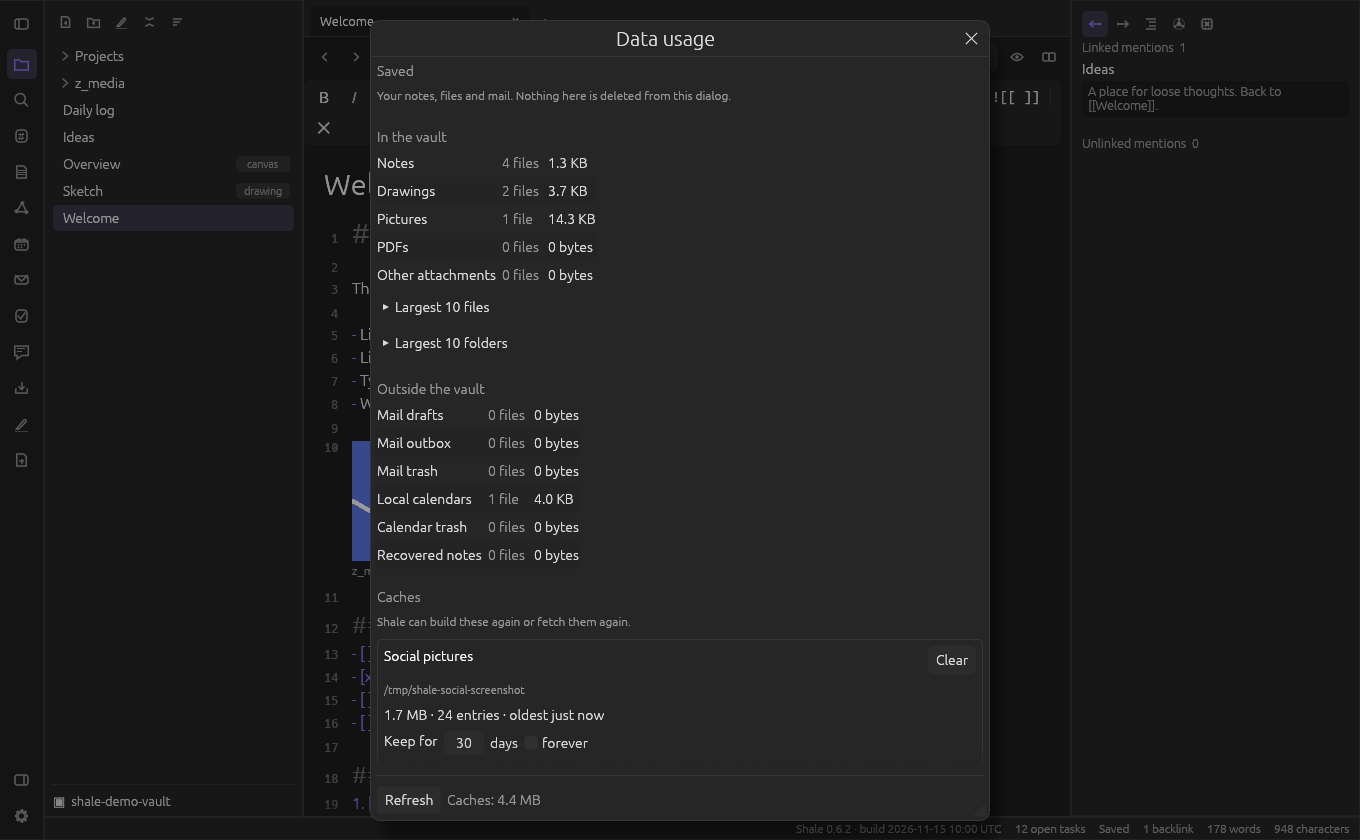
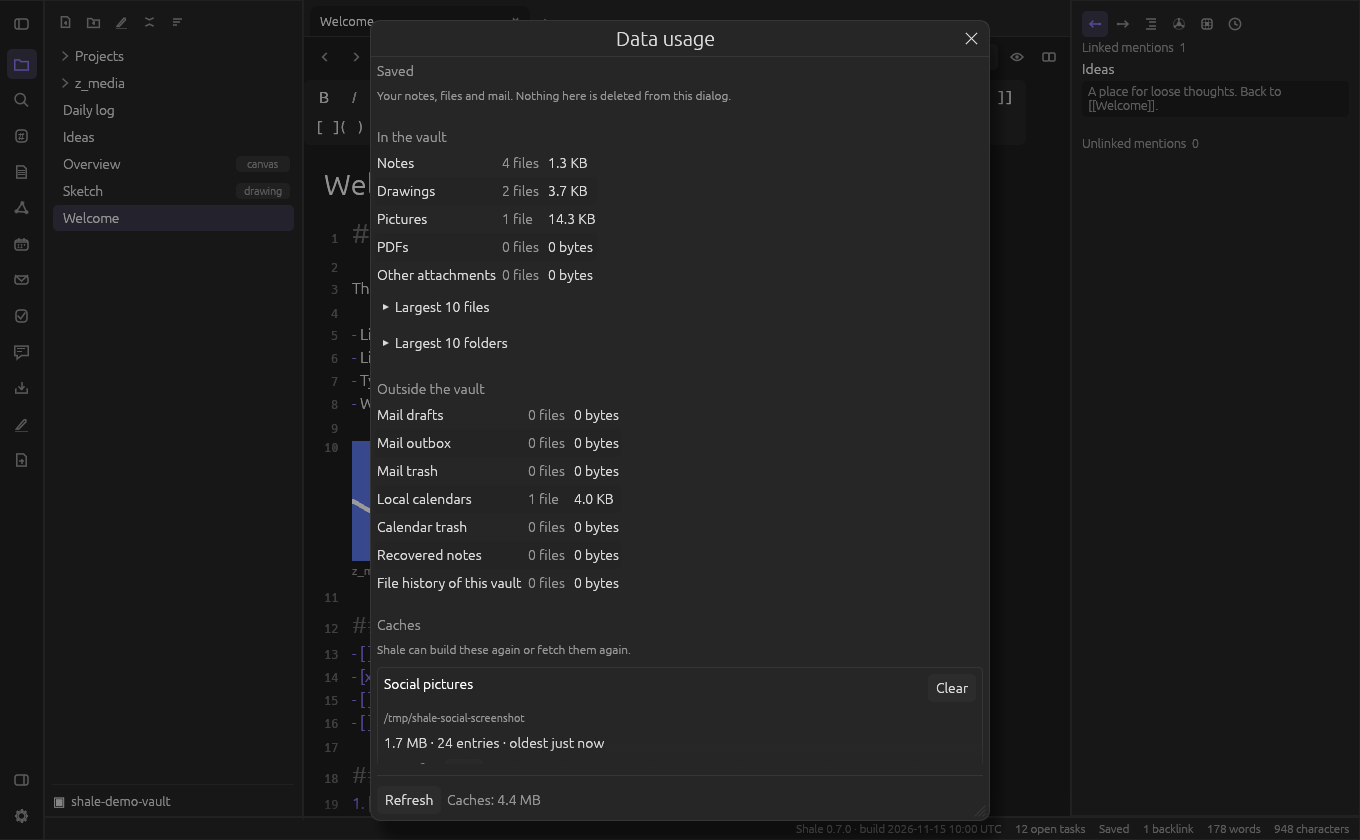
Outside files are not synced: a note in Settings -> Sync, tooltips on captions and names, tests; user guide, features and changelog
Closes #501

Changed region(s): [[0.2779, 0.4643, 0.4632, 0.8976], [0.6794, 0.7738, 0.7103, 0.8357], [0.4015, 0.7429, 0.4324, 0.7738]]

diff --git a/src/gitsync/tests.rs b/src/gitsync/tests.rs
@@ -186,6 +186,41 @@ fn two_vaults_sync_through_a_bare_remote() {
     assert_eq!(env.git(&a, &["rev-parse", "HEAD"]), env.git(&b, &["rev-parse", "HEAD"]));
 }
 
+// spec: MEDIA-023, SYNC-007
+#[test]
+fn a_vault_with_outside_links_syncs_only_its_own_files_and_leaves_the_outside_files_alone() {
+    let env = Env::new("outside-media");
+    let remote = env.bare();
+    let a = env.vault("a", &remote);
+    // the library folder and a loose file sit next to the vault, never inside it
+    let videos = env.folder("Videos");
+    write(&videos, "2024/clip.mp4", "outside video");
+    let loose = env.folder("loose");
+    write(&loose, "pic.png", "outside picture");
+    let file_link = crate::media::testdata::file_address(&loose.join("pic.png"));
+    let note = format!("# Trip\n\n![[@Videos/2024/clip.mp4]]\n\n![]({file_link})\n");
+    write(&a, "Trip.md", &note);
+    write(&a, "z_media/2026/11/261122_inside.png", "a copy in the vault");
+    let outside_before = (read(&videos, "2024/clip.mp4"), read(&loose, "pic.png"), fs::metadata(videos.join("2024/clip.mp4")).unwrap().modified().unwrap());
+    let r = env.sync(&a);
+    assert!(r.pushed && r.remote);
+    let tracked: Vec<String> = env.git(&a, &["ls-files"]).lines().map(String::from).collect();
+    assert_eq!(tracked, ["Trip.md", "z_media/2026/11/261122_inside.png"], "the links are text; the files they name are not in the history");
+    assert!(env.git(&remote, &["ls-tree", "-r", "--name-only", "main"]).lines().all(|f| !f.contains("clip.mp4") && !f.contains("pic.png")), "nor on the server");
+    // another device gets the note with its links, and not the files
+    let b = env.vault("b", &remote);
+    env.sync(&b);
+    assert_eq!(read(&b, "Trip.md"), note);
+    assert!(!b.join("2024").exists() && !b.join("Videos").exists() && !b.join("pic.png").exists() && !b.join("clip.mp4").exists());
+    // a change of the note on the second device comes back; the outside files were never touched
+    write(&b, "Trip.md", &format!("{note}\nmore\n"));
+    env.sync(&b);
+    env.sync(&a);
+    assert!(read(&a, "Trip.md").ends_with("more\n"));
+    assert_eq!(outside_before, (read(&videos, "2024/clip.mp4"), read(&loose, "pic.png"), fs::metadata(videos.join("2024/clip.mp4")).unwrap().modified().unwrap()), "read-only: content and time are as they were");
+    assert!(!videos.join(".git").exists() && !loose.join(".git").exists());
+}
+
 // spec: SYNC-008
 #[test]
 fn edits_on_both_sides_become_a_conflict_copy() {

diff --git a/src/media/ui_tests/outside.rs b/src/media/ui_tests/outside.rs
@@ -461,3 +461,38 @@ fn an_outside_picture_that_is_not_there_has_no_copy_action_and_the_menu_entry_is
     plain.hl.click(&mut plain.app, at + egui::vec2(8.0, 6.0), PointerButton::Primary);
     assert!(plain.app.outside_copy.is_none() && plain.app.toasts.iter().all(|(t, _)| !t.contains("Copying")), "it does nothing when it is off");
 }
+
+/// Hover over `at` for long enough that a tooltip shows, and say whether `what` is on the screen.
+fn tooltip_shows(fx: &mut Fx, at: Pos2, what: &str) -> bool {
+    fx.hl.frame(&mut fx.app, vec![egui::Event::PointerMoved(at)]);
+    for _ in 0..30 {
+        fx.hl.frame(&mut fx.app, vec![]);
+        if said(fx, what) {
+            return true;
+        }
+    }
+    false
+}
+
+// spec: MEDIA-023
+#[test]
+fn the_caption_and_the_name_of_an_outside_file_say_it_is_not_synced_and_those_of_the_vault_do_not() {
+    let o = Outside::new("not-synced");
+    o.picture("a.png");
+    let mut fx = window("o-not-synced", "![[@Media/a.png]]\n\n![[inside.png]]\n", o.library());
+    std::fs::copy(o.folder.join("a.png"), fx.dir.join("inside.png")).unwrap();
+    fx.app.vault.as_mut().unwrap().rescan();
+    fx.hl.frames(&mut fx.app, 3);
+    // the editor: the caption of the outside picture, not that of the picture of the vault
+    fx.reading(false);
+    let outside = fx.hl.text.iter().find(|(t, _)| t == "@Media/a.png").map(|(_, p)| *p).expect("the caption of the outside picture");
+    let inside = fx.hl.text.iter().find(|(t, _)| t == "inside.png").map(|(_, p)| *p).expect("the caption of the picture of the vault");
+    assert!(!tooltip_shows(&mut fx, inside + egui::vec2(6.0, 5.0), crate::media::outside::NOT_SYNCED), "a file of the vault is synced");
+    fx.hl.frame(&mut fx.app, vec![egui::Event::PointerMoved(Pos2::new(5.0, 5.0))]);
+    assert!(tooltip_shows(&mut fx, outside + egui::vec2(6.0, 5.0), crate::media::outside::NOT_SYNCED), "{:?}", fx.hl.text);
+    // the reading view: the name in the header of the frame
+    fx.reading(true);
+    fx.hl.frame(&mut fx.app, vec![egui::Event::PointerMoved(Pos2::new(5.0, 5.0))]);
+    let name = fx.hl.text.iter().find(|(t, _)| t == "a.png").map(|(_, p)| *p).expect("the name of the outside picture");
+    assert!(tooltip_shows(&mut fx, name + egui::vec2(4.0, 4.0), crate::media::outside::NOT_SYNCED), "{:?}", fx.hl.text);
+}

diff --git a/src/app/sync.rs b/src/app/sync.rs
@@ -65,6 +65,9 @@ pub struct SyncState {
     pub url: String,
     /// `origin` of the open vault.
     pub remote: Option<String>,
+    /// How many media files the open vault links from outside it, counted from the index once for
+    /// each state of it, with that state (its number and generation): the note in the settings (MEDIA-023).
+    outside_media: Option<((u64, u64), usize)>,
     /// Where the settings controls were drawn (for UI tests).
     pub(crate) rects: Vec<(&'static str, egui::Rect)>,
 }
@@ -398,6 +401,39 @@ impl ShaleApp {
         for f in failures {
             self.toast(f);
         }
+    }
+
+    /// How many media files the notes of the open vault link from outside the vault (each link
+    /// target once): they are not synced and not in the file history (MEDIA-023). Counted from
+    /// the index, no file system access.
+    pub(crate) fn outside_media_count(&mut self) -> usize {
+        let Some(v) = self.vault.as_ref() else { return 0 };
+        let key = (v.uid, v.generation);
+        match self.sync.outside_media {
+            Some((k, n)) if k == key => n,
+            _ => {
+                let n = v.outside_links().links.iter().map(|(_, t)| t.as_str()).collect::<std::collections::HashSet<_>>().len();
+                self.sync.outside_media = Some((key, n));
+                n
+            }
+        }
+    }
+
+    /// The note in Settings → Sync for a vault with links to media outside it (MEDIA-023).
+    pub(crate) fn outside_media_note(&mut self, ui: &mut Ui) {
+        let n = self.outside_media_count();
+        if n == 0 {
+            return;
+        }
+        ui.add_space(8.0);
+        crate::theme::hint(
+            ui,
+            format!(
+                "{n} media {} linked from outside the vault and {} not synced or kept in the file history. A library link finds its file on another device when that device has the library folder set up (Settings → Import).",
+                if n == 1 { "file is" } else { "files are" },
+                if n == 1 { "is" } else { "are" }
+            ),
+        );
     }
 
     /// The "Git sync" part of the settings. Returns whether a setting changed.

diff --git a/src/panels_ui_tests.rs b/src/panels_ui_tests.rs
@@ -958,6 +958,29 @@ fn media_022_the_vault_check_lists_outside_links_by_note_in_the_same_background_
     let _ = std::fs::remove_dir_all(&outside);
 }
 
+// spec: MEDIA-023
+#[test]
+fn media_023_settings_sync_says_how_many_media_files_are_linked_from_outside_and_not_synced() {
+    let mut p = P::with_files("outside-sync-note", &[("Trip.md", "![[@Videos/a.mp4]] ![[@Videos/a.mp4|200]] [[@Videos/b.pdf]]\n"), ("Other.md", "![](<file:///elsewhere/pic.png>) [[Trip]]\n")]);
+    p.app.open_settings(SettingsTab::Sync);
+    let shown = shown_labels(&mut p);
+    let note = shown.iter().find(|l| l.contains("linked from outside the vault")).unwrap_or_else(|| panic!("{shown:?}"));
+    assert!(note.starts_with("3 media files are linked from outside the vault and are not synced"), "each file once, however often it is linked: {note}");
+    assert!(note.contains("file history"), "{note}");
+    assert!(shown.iter().any(|l| l.contains("Settings → Import")), "the way to set the library up: {shown:?}");
+    // one file: the singular
+    let mut q = P::with_files("outside-sync-note-one", &[("Trip.md", "![[@Videos/a.mp4]]\n")]);
+    q.app.open_settings(SettingsTab::Sync);
+    assert!(shown_labels(&mut q).iter().any(|l| l.starts_with("1 media file is linked from outside the vault and is not synced")));
+    // no links: no note; and the count follows the notes
+    let mut r = P::with_files("outside-sync-note-none", &[("Plain.md", "no media\n")]);
+    r.app.open_settings(SettingsTab::Sync);
+    assert!(!shown_labels(&mut r).iter().any(|l| l.contains("linked from outside the vault")));
+    std::fs::write(r.dir.join("Plain.md"), "![[@Videos/c.mp4]]\n").unwrap();
+    r.app.vault.as_mut().unwrap().rescan();
+    assert!(labels_until(&mut r, "1 media file is linked from outside the vault").len() > 1);
+}
+
 /// The text boxes on screen, top to bottom and left to right.
 fn text_boxes(p: &mut P) -> Vec<Rect> {
     let mut boxes: Vec<Rect> = p.look(Show::Modals).into_iter().filter(|(r, _, _)| matches!(r, Role::TextInput | Role::MultilineTextInput)).map(|(_, _, rect)| rect).collect();

diff --git a/src/gitsync/history/history_tests.rs b/src/gitsync/history/history_tests.rs
@@ -240,6 +240,26 @@ fn a_new_local_history_starts_with_the_vault_as_it_is() {
     assert_eq!(g.files_in_head(&r), ["A.md"]);
 }
 
+// spec: MEDIA-023, SYNC-034
+#[test]
+fn the_file_history_never_takes_a_file_that_a_note_links_from_outside_the_vault() {
+    let h = setup("hist-outside-media");
+    let outside = h.env.folder("Videos");
+    write(&outside, "clip.mp4", "outside video");
+    write(&outside, "pic.png", "outside picture");
+    write(&h.vault, "Trip.md", "![[@Videos/clip.mp4]] ![](<file:///elsewhere/pic.png>)\n");
+    let repo = h.repo();
+    committed(h.snap(&repo, Reason::Save, &["Trip.md"]));
+    // asked for by a path out of the vault, or an absolute one, nothing is committed
+    let absolute = outside.join("clip.mp4").to_string_lossy().into_owned();
+    for p in ["../Videos/clip.mp4", "../Videos/pic.png", absolute.as_str()] {
+        assert_eq!(h.snap(&repo, Reason::Save, &[p]), Outcome::Unchanged, "{p}");
+    }
+    assert_eq!(h.files_in_head(&repo), ["Trip.md"]);
+    assert_eq!(h.messages(&repo).len(), 1, "one version, of the note");
+    assert!(!outside.join(".git").exists() && fs::read_dir(&outside).unwrap().count() == 2, "nothing is written next to the outside files");
+}
+
 // spec: SYNC-034
 #[test]
 fn a_snapshot_commits_only_its_paths_and_leaves_other_staged_changes_alone() {

diff --git a/src/settings/sync_calendar.rs b/src/settings/sync_calendar.rs
@@ -7,6 +7,7 @@ use eframe::egui::Ui;
 impl ShaleApp {
     pub(super) fn sync_tab(&mut self, ui: &mut Ui, asks: &mut Asks) -> bool {
         let sync = self.sync_settings_ui(ui);
+        self.outside_media_note(ui);
         self.history_settings_ui(ui, asks) | sync
     }
 

diff --git a/docs/spec/features.md b/docs/spec/features.md
@@ -258,4 +258,4 @@ video: raba/shale#179.
 | MEDIA-020 | **What a linked file is written as** (#500, ADR-0030): a file linked under a mapped library folder (the folder with the most parts wins; paths are made canonical first, and compared part by part) becomes `![[@Name/rest]]` with `/` between the parts (`[[@Name/rest]]` for a file that is not embedded: a PDF, or a video without a player, as `media::link_for` does); any other file `![](<file:///home/ada/My Videos/a.mp4>)` (`[name](<file:///…>)` when not embedded; on Windows `file:///C:/Users/…`, and a network path `file:////host/share/…`). Spaces and letters stand as they are inside `<…>`; `%`, `)`, `<`, `>` and control characters are written `%XX`, so that `markdown::find_links`, `outside::spot` and Obsidian read the same file back. A library link is not written when a part of the path would break a `[[link]]` (`#` `\|` `^` `[` `]`, a double space) or when the library has a bad name or no folder or is shadowed by an earlier library of the same name: the file link takes its place. The same files copied go to `z_media/` as EDIT-003. | IS NOW | `media::intake::link_text`, `media::intake::file_uri_for`, `media::intake::bring` | `media/intake.rs::a_file_under_a_library_folder_is_a_library_link_with_slashes_and_the_longest_folder_wins`, `::a_file_that_is_in_no_library_is_a_file_link_and_so_is_one_a_wiki_link_could_not_hold`, `::the_file_address_encodes_what_would_end_the_link_and_has_the_windows_form`, `::a_written_link_is_read_back_by_find_links_and_resolves_to_the_same_file` |
 | MEDIA-021 | **Copy into the vault** (#501, ADR-0030): an outside embed whose file is there can be copied into the vault, and its link then points at the copy. **One embed**: the caption below an outside embed in the editor and the markdown preview (EDIT-053) has **Copy into the vault** at its right end (the caption gives way; a narrow picture's line is as wide as both need; no action for a file that is not there or a library not set up, whose strip says why, MEDIA-016); in the reading view a picture or PDF has the button beside **Open** in the header of its frame, and a player has it in a line below, with "Outside the vault: not synced" (MEDIA-023). A press on the button does only that, for as long as it is held: the cursor and the selection stay where they were (EDIT-112). **All outside links of a note**: **Copy outside media into the vault** in the ⋯ menu of a note (off when the note has none). Both ask `ShaleApp::copy_outside`: the files that the note's outside links name (`Vault::outside_targets`: links no file of the vault answers to, each target once; for the caption and the reading view's button only the link's own target) are copied by `media::copy_in::copy_into` in a background job (JOB-001; the files may be big and on a slow disk) with `media::import_file` to `z_media/<YYYY>/<MM>/<YYMMDD>_<name>` (EDIT-003; a file that several targets name, as a library link and a file address, is one copy; a file that lies in the vault already is linked in place), one copy at a time. When the job has ended the vault is scanned and `media::copy_in::relink` rewrites **every link of the note with that target** (the embed or link form, `\|300` width, alias, `#heading` and the `<…>` of a markdown link stay; only the target changes): in an editor that shows the note as **one step of its own for Ctrl+Z**, with the cursor and the selection moving with the text as in EDIT-052; in the reading view, or with no editor showing the note, the text is changed and saved like a ticked task (EDIT-007). A file that is not there (not found, library not set up, a path out of the library) is left, with its link, and named in the toast, which says how many files were copied (also "No file was copied into the vault"); one that could not be copied is named with the reason and its link stays. The original is never changed. | IS NOW | `media/copy_in.rs` (`copy_into`, `relink`, `Copied`), `app/outside_copy.rs` (`copy_outside`, `outside_copy_tick`), `Vault::outside_targets`, `editor.rs` (`paint_caption`, `apply_relink`, `EditorAction::CopyOutside`, `pending_relink`), `reader.rs` (`outside_row`, `embed`, `ReaderAction::CopyOutside`), `layout.rs` (note menu), `Action::CopyOutside` | `media/copy_in.rs::the_files_of_outside_links_are_copied_once_and_what_is_not_there_is_reported`, `::a_file_that_cannot_be_copied_is_reported_and_its_link_is_left`, `::a_file_link_to_a_file_in_the_vault_becomes_a_link_of_the_vault`, `::the_link_text_keeps_its_form_width_alias_and_heading`, `::only_the_links_that_were_copied_change_and_a_note_without_them_stays`; `editor.rs::the_caption_of_an_outside_picture_that_is_there_offers_to_copy_it_and_a_click_leaves_the_cursor_alone`, `::a_copy_that_arrived_points_the_links_at_it_and_the_cursor_moves_with_the_text`; `media/ui_tests/outside.rs::copy_into_the_vault_on_the_caption_copies_the_file_keeps_the_width_and_is_one_undo_step`, `::copy_into_the_vault_in_the_reading_view_works_for_a_picture_and_for_a_player_and_saves_the_note`, `::the_note_menu_copies_all_outside_links_whose_files_are_there_and_reports_the_rest`, `::copying_runs_one_at_a_time_says_when_there_is_nothing_to_copy_and_copes_with_a_note_that_closed_or_is_gone`, `::an_outside_picture_that_is_not_there_has_no_copy_action_and_the_menu_entry_is_off_without_outside_links` |
 | MEDIA-022 | **Checks and data usage know outside media** (#501, ADR-0030). **The vault check** (VAULT-028; Settings → Vault, the same button and the same background job as the check of the names) also lists the vault's **outside links**: a section "Media outside the vault" says how many links there are and how many need a look, names each **library that links use and this device cannot use** (not set up, or its folder set but not there) in red with the number of its links, and lists **by note** the links that need a look with the reason: *library “X” is not set up on this device*, *leaves the library folder “X”*, *not found: <path>* (a library link or a file link whose file is not there), and *a file link: it works on this computer only; a library link would work on every device* (a file link whose file is there). A library link whose file is there is not listed. A vault with none says so. The links come from the index (`Vault::outside_links`: notes and drawings, a link no vault file answers to, each target once for each note; no file system access on the frame); the job looks the files up (`media::linked::look_up`, each target once; `vault_check::check_outside`). **Data usage** (USE-026) lists the outside media the vault links. Neither runs a look-up on a frame (JOB-001), because the files can be on a slow or unreachable disk. | IS NOW | `media/linked.rs` (`Links`, `look_up`, `usage`), `Vault::outside_links`, `vault_check/outside.rs` (`check_outside`, `Problem`, `OutsideCheck`), `vault_check.rs` (`VaultCheck`, `start_vault_check`), `settings/vault.rs` (`outside_check_ui`), `data_usage/scan.rs` (`linked`) | `media/linked.rs::every_link_is_looked_up_on_this_device_and_a_target_is_looked_at_once`, `::the_usage_counts_each_file_once_by_path_with_its_size_and_the_missing_apart`; `vault_check/outside.rs::the_check_lists_by_note_what_is_missing_what_is_not_set_up_and_which_links_are_file_links`, `::a_problem_says_what_is_wrong_in_words`; `panels_ui_tests.rs::media_022_the_vault_check_lists_outside_links_by_note_in_the_same_background_job` |
-| MEDIA-023 | **Outside files are not synced** (#501, ADR-0030): sync and file history never touch outside files; the sync settings and the player say "outside the vault: not synced" where it matters. | SHOULD BE (#501) | — | — |
+| MEDIA-023 | **Outside files are not synced** (#501, ADR-0030). Sync (ADR-0008) and the file history (ADR-0028) only know the files of the vault: they commit, push and pull what is in the vault's folder, and a link to an outside file is text in a note, so **the file is never read, copied, committed or changed** by either (a snapshot asked for a path out of the vault commits nothing). Another device gets the note with its links and shows "not found" or "not set up" until it has the library (MEDIA-014). Where it matters the app says so: **Settings → Sync** shows, when the open vault links outside media, "N media files are linked from outside the vault and are not synced or kept in the file history" (N: the link targets, each once, counted from the index and kept until the index changes, no file system access) with the hint that a library link finds its file on another device when that device has the library folder set up (Settings → Import); the **caption** of an outside embed in the editor and the preview, and the **name** in the header of an outside picture or PDF in the reading view, have the tooltip "Outside the vault: not synced", and a **player** in the reading view has a line below it saying so (with Copy into the vault, MEDIA-021); the files of the vault have none of these. Data usage lists the outside media apart (USE-026). | IS NOW | `app/sync.rs` (`outside_media_count`, `outside_media_note`), `settings/sync_calendar.rs`, `editor.rs` (`paint_caption`), `reader.rs` (`embed`, `outside_row`), `media::outside::NOT_SYNCED`, `gitsync.rs`, `gitsync/history.rs` | `gitsync/tests.rs::a_vault_with_outside_links_syncs_only_its_own_files_and_leaves_the_outside_files_alone`, `gitsync/history/history_tests.rs::the_file_history_never_takes_a_file_that_a_note_links_from_outside_the_vault`, `panels_ui_tests.rs::media_023_settings_sync_says_how_many_media_files_are_linked_from_outside_and_not_synced`, `media/ui_tests/outside.rs::the_caption_and_the_name_of_an_outside_file_say_it_is_not_synced_and_those_of_the_vault_do_not`, `::copy_into_the_vault_in_the_reading_view_works_for_a_picture_and_for_a_player_and_saves_the_note` |

diff --git a/docs/userguide/Reading view.md b/docs/userguide/Reading view.md
@@ -4,7 +4,7 @@
 
 The reading view shows the note rendered: headings, lists, links (blue and red as in the
 editor), embedded pictures, drawings and PDFs, and task boxes you can tick (the change is saved
-in the note). A picture embedded inside a line of text (`an icon ![[icon.png]] here`, also in a table cell) is drawn in the line, as high as the text of the line and sitting on its baseline like a letter, never wider than the column; the pointer and a click on it work as on the link. A picture that is missing or cannot be read, and any other embed inside a line (a drawing, a PDF, a sound), stay their link text, and an embed on a line of its own is shown as a block as before. Coloured highlights and font colours (`<mark style="background: …">`, `<span style="color: …">`, see [[Editor]]) are shown with their tags hidden. Footnote references are small raised labels: a click on one scrolls to its definition, a click on the label of a definition scrolls back (see [[Editor]]). Formulas between dollar signs are typeset: `$…$` in the text, `$$…$$` on lines of their own and fenced code blocks with the language `math` centred (see [[Editor]]), also in table cells; one Shale cannot typeset stays as its TeX in the code style and says why when you point at it. `<u>`, `<sub>` and `<sup>` give underlined, lowered and raised text, and `<br>` in a table cell starts a new line. Tables are drawn as grids, with a bold header row and aligned columns. Headings carry their numbers when numbering is on, and a link to a heading (`[[Note#Heading]]`) scrolls the reading view to it without leaving it (see [[Notes and links]]). The properties at the top of a note (the front matter between two `---` lines) are drawn as a card made for the kind of note instead of raw lines: an imported mail as a mail header (sender in bold, date at the right (a link that shows that day in the calendar), "to …", tags as chips), an event with its time (a link to its day in the calendar), place, attendees and a "repeats" badge, a Word import with one chip for its page ("A4 · 2.5 cm margins · 11 pt"), any other note as key and value rows. Names that are notes (your contacts) are links. Ids and print settings are left out; the small ▸ under the card shows every property. **Settings → Appearance → Properties in the reading view** changes this to a one-line summary or the raw lines. Fenced code blocks are drawn as boxes with the language in a badge at the top right (see [[Editor]]); point at one and a copy icon left of the badge copies its code. Blocks fold here as in the editor (see [[Editor]]): hover the first line of a heading section, quote, list item, list, code block or signature and click the small ▾ left of it, or click the `… n lines` badge under a folded block (a folded code block is one row, its badge at the left of the box; in a mail the quotes say `… n quoted lines`). The folds are the editor's: fold a section while editing and it is folded here, and the other way round, for as long as Shale runs; nothing is written into the note. **Ctrl+Shift+O** folds every block and **Ctrl+Shift+I** unfolds all; the keys that fold at the cursor work in the editor only. A click on a footnote mark, or on a heading in the outline, opens the fold that hides its target. The properties card at the top has its own ▸ toggle. If you only want to read, this is the quiet way to do it. The always-rendered
+in the note). A picture embedded inside a line of text (`an icon ![[icon.png]] here`, also in a table cell) is drawn in the line, as high as the text of the line and sitting on its baseline like a letter, never wider than the column; the pointer and a click on it work as on the link. A picture that is missing or cannot be read, and any other embed inside a line (a drawing, a PDF, a sound), stay their link text, and an embed on a line of its own is shown as a block as before. Coloured highlights and font colours (`<mark style="background: …">`, `<span style="color: …">`, see [[Editor]]) are shown with their tags hidden. Footnote references are small raised labels: a click on one scrolls to its definition, a click on the label of a definition scrolls back (see [[Editor]]). Formulas between dollar signs are typeset: `$…$` in the text, `$$…$$` on lines of their own and fenced code blocks with the language `math` centred (see [[Editor]]), also in table cells; one Shale cannot typeset stays as its TeX in the code style and says why when you point at it. `<u>`, `<sub>` and `<sup>` give underlined, lowered and raised text, and `<br>` in a table cell starts a new line. Tables are drawn as grids, with a bold header row and aligned columns. Headings carry their numbers when numbering is on, and a link to a heading (`[[Note#Heading]]`) scrolls the reading view to it without leaving it (see [[Notes and links]]). The properties at the top of a note (the front matter between two `---` lines) are drawn as a card made for the kind of note instead of raw lines: an imported mail as a mail header (sender in bold, date at the right (a link that shows that day in the calendar), "to …", tags as chips), an event with its time (a link to its day in the calendar), place, attendees and a "repeats" badge, a Word import with one chip for its page ("A4 · 2.5 cm margins · 11 pt"), any other note as key and value rows. Names that are notes (your contacts) are links. Ids and print settings are left out; the small ▸ under the card shows every property. **Settings → Appearance → Properties in the reading view** changes this to a one-line summary or the raw lines. Fenced code blocks are drawn as boxes with the language in a badge at the top right (see [[Editor]]); point at one and a copy icon left of the badge copies its code. Blocks fold here as in the editor (see [[Editor]]): hover the first line of a heading section, quote, list item, list, code block or signature and click the small ▾ left of it, or click the `… n lines` badge under a folded block (a folded code block is one row, its badge at the left of the box; in a mail the quotes say `… n quoted lines`). The folds are the editor's: fold a section while editing and it is folded here, and the other way round, for as long as Shale runs; nothing is written into the note. **Ctrl+Shift+O** folds every block and **Ctrl+Shift+I** unfolds all; the keys that fold at the cursor work in the editor only. A click on a footnote mark, or on a heading in the outline, opens the fold that hides its target. The properties card at the top has its own ▸ toggle. If you only want to read, this is the quiet way to do it. A picture, PDF or player whose file is outside the vault ([[Sounds and videos]]) has **Copy into the vault**: a button beside **Open** on a picture or PDF, a line under a player. The always-rendered
 alternative while you edit is the Markdown preview in [[Editor]].
 
 ![[reading-folds.png]]

diff --git a/docs/FEATURES.md b/docs/FEATURES.md
@@ -160,14 +160,23 @@ again from the recipes in `docs/screenshots/recipes.conf`; the pictures live in 
   export. A missing file, or a library that is not set up here, says so in place of the embed. A click
   opens the file with your system's program and never makes a note; such links are not red, not in the
   graph and not offered by "Fix link". Only these four kinds of file are opened this way, and nothing
-  outside the vault is ever written. Outside files are not synced.
+  outside the vault is ever written. Outside files are not synced or kept in the file history
+  (MEDIA-023): Settings → Sync says how many files the vault links from outside, and the caption of such
+  a file says "Outside the vault: not synced" on hover.
   **Settings → Import → Files from outside the vault** says what a pick with `[!`, a paste or an import
   does with a picture, PDF, sound or video that is not in the vault: **Ask** (the start value), **Copy
   into the vault** or **Link where they are** (MEDIA-019); the library folders of this computer (a name
   and a folder each) are set on the same page. A linked file under a library folder is written
   `![[@Videos/2024/a.mp4]]`, any other `![](<file:///…>)` (MEDIA-020). Nothing is linked because it lies
-  in a library folder: every entry point follows the setting. "Copy into the vault" for links that exist
-  follows (#501). The Import tab of Settings is shown under "Importing e-mails, events and files".
+  in a library folder: every entry point follows the setting. An outside embed that is there has **Copy
+  into the vault** (the right end of its caption in the editor and the preview, a button or a line in the
+  reading view), and the note's ⋯ menu has **Copy outside media into the vault** for all of its links: the
+  files go to `z_media/` in the background and the links are rewritten (width and alias kept, one undo step,
+  MEDIA-021). **Settings → Vault → Check names for Windows and macOS…** also lists the vault's outside
+  links by note (a file that is not found, a library not set up on this computer or whose folder is not
+  there, file links that work on this computer only; MEDIA-022), and **Data usage** counts the outside
+  files the vault links and their size (USE-026), both in background jobs. The Import tab of Settings is
+  shown under "Importing e-mails, events and files".
 
 ![Reading view](userguide/z_media/screenshots/reading.png)
 
@@ -1039,7 +1048,9 @@ key or a passphrase, never looks a key up on the network by itself, and tells yo
   `.trash/`, `.git/`), its 10 largest files and folders (a click opens the file or shows the
   folder), and your data outside the vault: mail per account, drafts, outbox, mail trash, local
   calendars, calendar trash, recovered notes and the file history of a vault that has no `.git` (with `.git` it is
-  counted in the vault's `.git/`). Nothing in this part can be deleted here.
+  counted in the vault's `.git/`), and, when notes link media from outside the vault, **Outside media linked by this
+  vault**: the files that are there, each once, with their size, and how many are not found or not set up (USE-026).
+  Nothing in this part can be deleted here.
 - **Caches** are what Shale can build or fetch again: social pictures, the social post index,
   the mail index, its daily backups, damaged copies of the mail index, the learned tag words, the
   undo histories of the notes of the open vault and the keyboard debug log. Each row shows its size, entries, oldest entry and last cleanup, and

diff --git a/docs/userguide/Sounds and videos.md b/docs/userguide/Sounds and videos.md
@@ -77,7 +77,35 @@ on such a link opens the file in your system's program, and nothing else than pi
 sounds and videos is ever opened this way. These links are not red, and they are not in the graph.
 
 Files outside the vault are not part of it: they are not synced with [[Git sync]] and not in
-the [[File history]], and a backup of the vault does not hold them.
+the [[File history]], and a backup of the vault does not hold them. Shale says so where it matters:
+the caption of such a picture or player has the tooltip "Outside the vault: not synced", the reading
+view prints it under the player, and Settings → Sync tells how many files the vault links from outside.
+
+## Copy into the vault later
+
+A link to a file outside the vault can become an ordinary file of the vault at any time:
+
+- **One file**: below an outside picture, PDF, sound or video in the editor (and the markdown preview)
+  the caption has **Copy into the vault** at its right end; in the [[Reading view]] it is a button
+  beside **Open** on a picture or PDF and a line under a player. It is shown only when the file is
+  there. A press on it does only that: the cursor stays where it was.
+- **The whole note**: ⋯ → **Copy outside media into the vault** copies every outside file the note
+  links, whose file is there.
+
+The files are copied to `z_media/<year>/<month>/` like any other file you add (a file that is linked
+twice, or in both forms, is copied once), and the links in the note then point at the copies: an
+embed keeps its width (`![[…|300]]`), its words and its form. In the editor this is one step for
+Ctrl+Z, which brings the outside links back (the copies stay in `z_media`). The copying runs in the
+background; the message tells how many files went into the vault and names those that were left
+because their file is not there or could not be copied. The original files are never changed.
+
+## Checking what the vault links
+
+**Settings → Vault → Check names for Windows and macOS…** also lists the links to media outside the
+vault ([[Vault settings]]): the libraries that are not set up on this computer or whose folder is
+not there, and for each note the links whose file is not found, whose library is missing, and the file
+links (`file://`), which work on this computer only. **Data usage…** ([[Data usage and caches]])
+shows how many outside files the vault links and how big they are, and how many are missing.
 
 ## Linking instead of copying
 

diff --git a/docs/changelog-pending/I501.md b/docs/changelog-pending/I501.md
@@ -1,0 +1,3 @@
+### Added
+
+- **Media outside the vault: copy into the vault, checks, data usage, sync note** (#501, last of three parts, ADR-0030). A picture, PDF, sound or video that a note links from outside the vault can be **copied into the vault** later: the caption of the embed in the editor and the preview has **Copy into the vault** at its right end, the reading view has a button beside **Open** (a line under a player), and the ⋯ menu of a note has **Copy outside media into the vault** for all of its links whose file is there. The files go to `z_media/` in the background and the links are rewritten (width, alias and form stay; in the editor one step for Ctrl+Z); files that are not there are named in the message and left. **Settings → Vault → Check names for Windows and macOS…** also lists the vault's links to outside media by note (a file not found, a library not set up on this computer or whose folder is not there, file links that work on this computer only), and **Data usage** shows how many outside files the vault links, each once, with their size and how many are missing; both look the files up in background jobs. Outside files are not synced or kept in the file history (checked by tests); **Settings → Sync** says how many media files the vault links from outside, and the caption of such a file, and the name in the reading view, say "Outside the vault: not synced" on hover. The user guide describes it.

diff --git a/docs/userguide/Data usage and caches.md b/docs/userguide/Data usage and caches.md
@@ -11,7 +11,10 @@ on disk. Back to [[Start here]].
   `.trash/`, `.git/`), its 10 largest files and folders, and your data outside the vault: mail
   per account, drafts, outbox, calendars, recovered notes and, for a vault that is not a git
   repository, its file history ([[File history]]; in a git repository it is in `.git/`, counted with the
-  vault). Nothing here can be deleted from this window.
+  vault). When the notes link pictures, PDFs, sounds or videos from outside the vault
+  ([[Sounds and videos]]), **Outside media linked by this vault** shows how many such files there are
+  (each once) and their size, and in red how many are not found or not set up on this computer; the
+  files are not in the vault and not synced. Nothing here can be deleted from this window.
 - **Caches** are what Shale can build or fetch again: social pictures, the social post index,
   the mail index and its backups, damaged copies of the mail index, learned tag words, the
   keyboard debug log and the undo histories of notes (vim `u` / Ctrl+R). Each row shows its size and has a **Clear** button.
